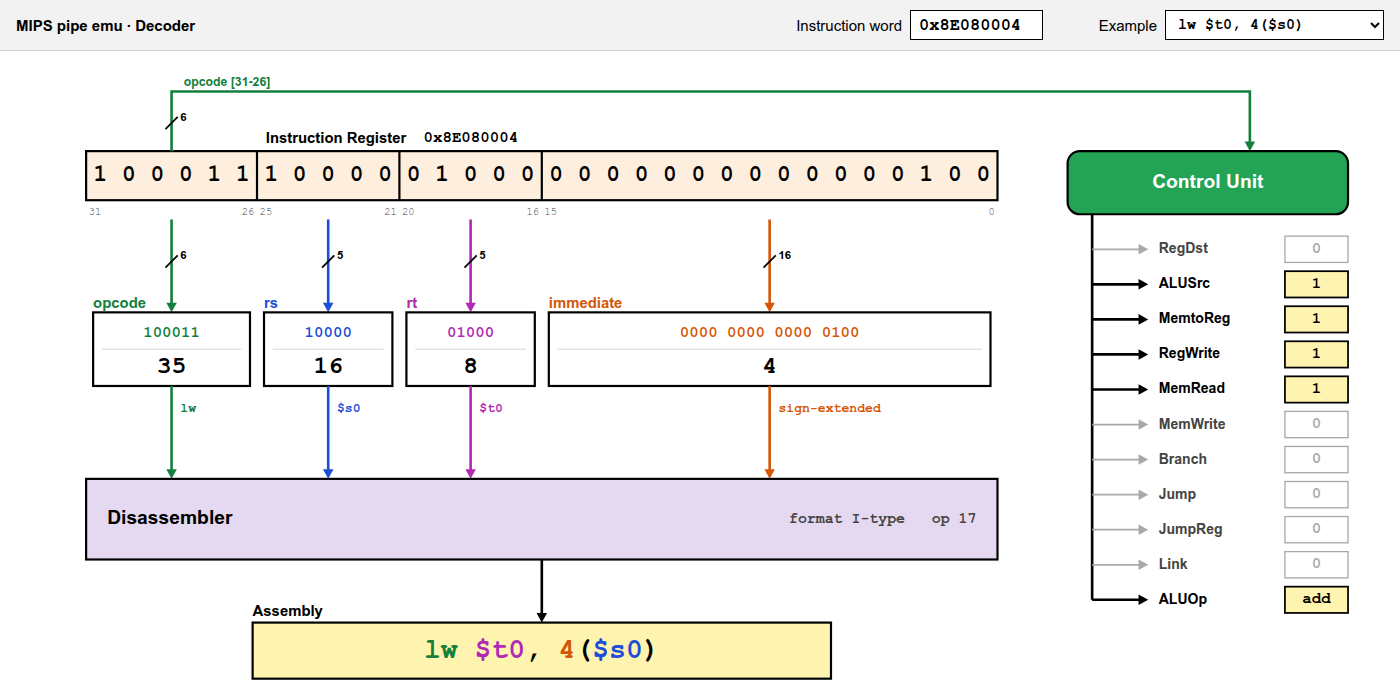
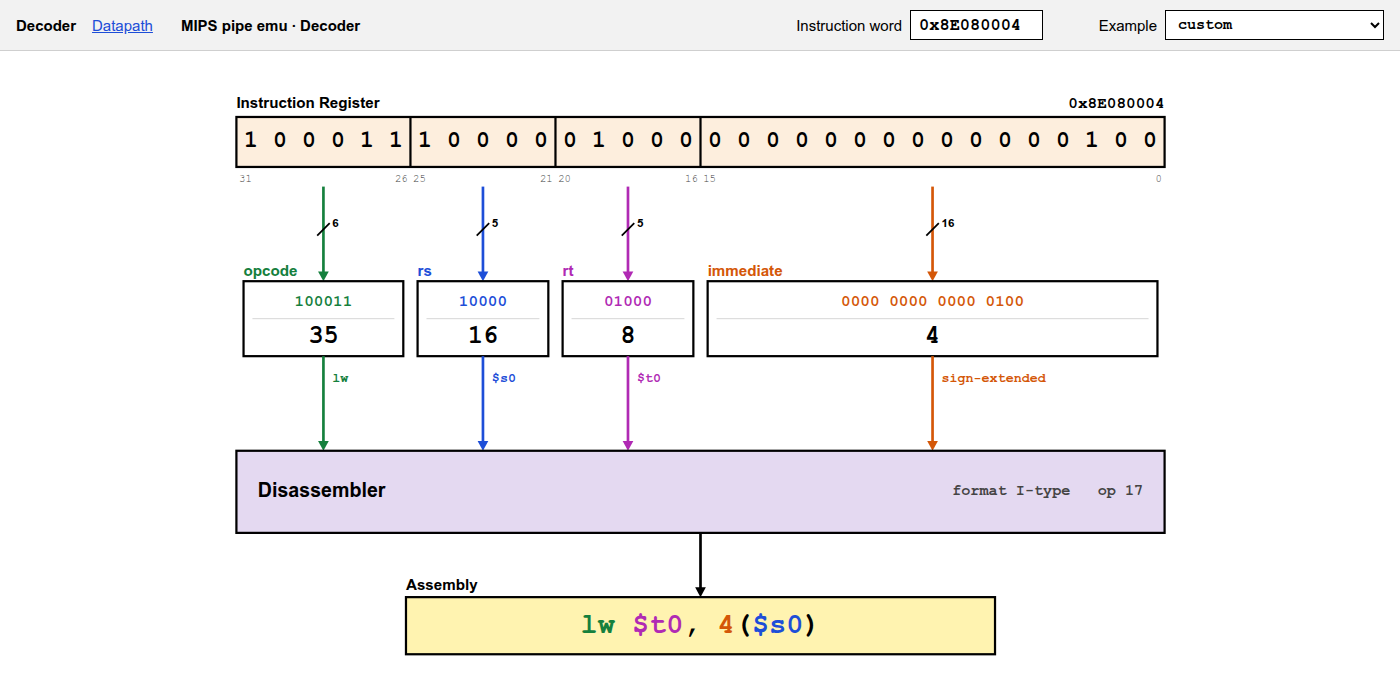
Add datapath section and screenshots to README

diff --git a/README.md b/README.md
@@ -7,11 +7,47 @@ The core is plain C++17. The same code runs the unit tests and, compiled to WebA
 
 **Live demo:** [mips.shrestharajeev.com.np](http://mips.shrestharajeev.com.np/)
 
+## Datapath
+
+Step a program through the single-cycle datapath (Lecture 19). Every value on the page comes
+from `Cpu::step()` in C++, compiled to WebAssembly: the page only draws the `StepTrace` it returns.
+
+- **Instruction memory** (left): the loaded program with its disassembly. The highlighted row is
+  the next instruction; the dashed row is the one that just ran.
+- **Datapath** (middle): PC, instruction memory, control, registers, ALU, next-PC logic and data
+  memory, joined by named buses. A bus turns black when it carries data, with its value in a
+  yellow tag. Control shows only the signals that are on; blocks the instruction doesn't use fade out.
+- **Registers** (left) and **data memory** (right): the written register or word is highlighted,
+  and every value can be edited before the next step.
+- **Step** (`S`) runs one instruction and plays it phase by phase: Fetch, Decode, Execute,
+  Memory, Write back. **Run** (`R`) keeps stepping until the program ends. Click a phase to
+  see the cycle up to that point.
+- Pick one of the example programs or paste your own hex words under **Edit program**.
+- If the trace disagrees with `decode()` and `control_for()`, or `step()` throws, the page says
+  so above the figure.
+
+### R-type: `add $t2, $t0, $t1`
+
+Reads 5 and 7, the ALU adds them, and 12 is written back to `$t2`. Data memory is not used.
+
+![Datapath running add](docs/screenshots/datapath-add.png)
+
+### Store: `sw $t2, 256($zero)`
+
+The ALU adds the immediate 256 to `$zero` to form the address, and `$t2` goes to data memory as write data.
+
+![Datapath running sw](docs/screenshots/datapath-sw.png)
+
+### Branch: `bne $t0, $zero, -3`
+
+The ALU subtracts, Zero is 0, so the branch is taken and the next PC is `0x8`, the top of the loop.
+
+![Datapath running bne](docs/screenshots/datapath-bne.png)
+
 ## Decoder
 
 Type a 32-bit instruction word or pick an example. The page splits the word into its fields,
-names the registers, disassembles it, and shows the control signals the control unit would raise
-(Lecture 19, slides 24-25).
+names the registers, and disassembles it.
 
 - Click any bit in the instruction register to flip it and see how the decode changes.
 - The URL keeps the current word (`#0x8E080004`), so you can link to a specific instruction.
@@ -32,8 +68,8 @@ names the registers, disassembles it, and shows the control signals the control 
 
 - [x] Core: memory, register file, ALU, decoder, control unit
 - [x] Single-cycle CPU with a per-instruction trace
-- [x] Web UI: decoder and control signals (C++ core compiled to WebAssembly)
-- [ ] Web UI: step through a program on the datapath
+- [x] Web UI: decoder (C++ core compiled to WebAssembly)
+- [x] Web UI: step through a program on the single-cycle datapath
 - [ ] 5-stage pipeline with pipeline registers
 - [ ] Forwarding, load-use stalls, and branch/jump handling in ID
 
@@ -139,13 +175,21 @@ npm install
 npm run dev           # builds the WASM module, then starts Vite on localhost
 ```
 
-`web/scripts/build-wasm.sh` compiles `src/decode.cpp`, `src/control.cpp`, `src/regfile.cpp`
-and `wasm/bindings.cpp` into `web/src/wasm/mipscore.wasm`. The bindings use embind to turn
-`mips::Instruction` and `mips::ControlSignals` into plain JS objects. `web/src/shared/core.ts`
-loads the module and wraps it in a typed `Core` interface.
+Open `/index.html` for the decoder and `/datapath.html` for the datapath.
 
-Every push to `main` or `feature/web-ui` that touches `src/`, `wasm/` or `web/` is built by
-GitHub Actions (`.github/workflows/pages.yml`) and deployed to GitHub Pages.
+`web/scripts/build-wasm.sh` compiles the core (`src/alu.cpp`, `control.cpp`, `cpu.cpp`,
+`decode.cpp`, `memory.cpp`, `regfile.cpp`) and `wasm/bindings.cpp` into
+`web/src/wasm/mipscore.wasm`. `npm run dev` and `npm run build` rerun it, so a change in `src/`
+shows up in the page on the next run.
+
+The bindings use embind to expose:
+
+- `decode(word)` and `registerName(reg)`
+- `control(word)`: `mips::control_for()` for the decoded word
+- `Machine`: a `mips::Cpu` the page can load, read and write (registers, memory, PC) and `step()`.
+  `step()` returns the `StepTrace` as a plain object, with `error` set if the C++ threw.
+
+`web/src/shared/core.ts` loads the module and wraps it in a typed `Core` interface.
 
 ## Layout
 
@@ -162,6 +206,9 @@ tests/          GoogleTest unit tests, one file per unit
 tools/          probe_decode: command-line decoder (make probe)
 wasm/           embind bindings that expose the core to JavaScript
 web/            Vite + TypeScript front end
+  src/pages/probe/      decoder page
+  src/pages/datapath/   datapath page (diagram.ts draws the figure)
+  src/shared/           WASM loader and page navigation
 docs/           screenshots
 ```
 
